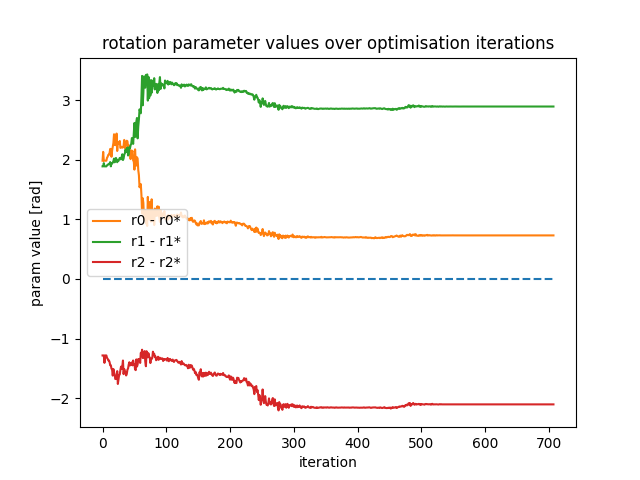
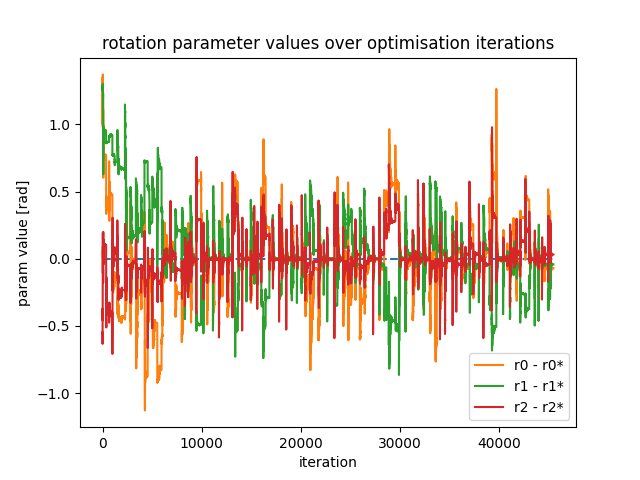
global optimisation with scipy

diff --git a/register.py b/register.py
@@ -136,7 +136,8 @@ def main(*, path: str | None, cache_directory: str, load_cached: bool, regenerat
     #                         torch.zeros_like(fixed_image, device='cpu')), dim=-1)
     # plt.imshow(overlaid)
 
-    if True:
+    # Landscape of similarity metric over two transformation parameters
+    if False:
         n = 80
         angle0s = torch.linspace(transformation_ground_truth.rotation[0] - torch.pi,
                                  transformation_ground_truth.rotation[0] + torch.pi, n)
@@ -159,6 +160,7 @@ def main(*, path: str | None, cache_directory: str, load_cached: bool, regenerat
         plt.colorbar(mesh)
         plt.savefig("data/temp/landscape_no_sample_smoothing.pgf")
 
+        # Landscape with sample smoothing
         if False:
             nznccs = torch.zeros((n, n))
             for i in tqdm(range(nznccs.numel())):
@@ -177,6 +179,7 @@ def main(*, path: str | None, cache_directory: str, load_cached: bool, regenerat
             plt.colorbar(mesh)
             plt.savefig("data/temp/landscape_with_sample_smoothing.pgf")
 
+    # Scatter of similarity vs. distance in SE3
     if True:
         n = 1000
         nznccs = torch.zeros(n)
@@ -193,7 +196,8 @@ def main(*, path: str | None, cache_directory: str, load_cached: bool, regenerat
         axes.set_ylabel("-ZNCC")
         axes.set_title("Relationship between similarity measure and distance in SE3")
 
-    if True:
+    # Registration
+    if False:
         def objective(params: torch.Tensor) -> torch.Tensor:
             return -objective_function.evaluate(fixed_image, sinogram3d,
                                                 transformation=Transformation(params[0:3], params[3:6]).to(
@@ -207,7 +211,7 @@ def main(*, path: str | None, cache_directory: str, load_cached: bool, regenerat
         start_params: torch.Tensor = transformation_start.vectorised()
 
         converged_params: torch.Tensor | None = None
-        if False:
+        if False:  # Using a PyTorch optimiser
             n = 1000
             iterated_params = start_params.clone().to(device=sinogram3d.device)
             iterated_params.requires_grad_(True)
@@ -230,7 +234,7 @@ def main(*, path: str | None, cache_directory: str, load_cached: bool, regenerat
             logger.info("Done. Took {:.3f}s.".format(toc - tic))
             logger.info("Final value = {:.3f} at params = {}".format(value_history[-1], param_history[-1]))
             converged_params = param_history[-1]
-        else:
+        else:  # Using a scipy optimiser
             def objective_scipy(params: np.ndarray) -> float:
                 params = torch.tensor(copy.deepcopy(params))
                 param_history.append(params)
@@ -239,7 +243,9 @@ def main(*, path: str | None, cache_directory: str, load_cached: bool, regenerat
                 return value.item()
 
             tic = time.time()
-            res = scipy.optimize.minimize(objective_scipy, start_params.numpy(), method='Nelder-Mead')
+            # res = scipy.optimize.minimize(objective_scipy, start_params.numpy(), method='Powell')
+            res = scipy.optimize.basinhopping(objective_scipy, start_params.numpy(), T=1.0,
+                                              minimizer_kwargs={"method": 'Nelder-Mead'})
             toc = time.time()
             logger.info("Done. Took {:.3f}s.".format(toc - tic))
             logger.info(res)

diff --git a/registration/objective_function.py b/registration/objective_function.py
@@ -47,7 +47,7 @@ def evaluate(fixed_image: torch.Tensor, sinogram3d: Sinogram, *, transformation:
     device = sinogram3d.device()
     source_position = scene_geometry.source_position(device=device)
     p_matrix = SceneGeometry.projection_matrix(source_position=source_position)
-    ph_matrix = torch.matmul(p_matrix, transformation.get_h(device=device)).to(dtype=torch.float32)
+    ph_matrix = torch.matmul(p_matrix, transformation.get_h(device=device).to(dtype=torch.float32))
 
     if smooth is not None and isinstance(sinogram3d, SinogramClassic):
         resampled = sinogram3d.resample_python(ph_matrix=ph_matrix, fixed_image_grid=fixed_image_grid, smooth=smooth,

diff --git a/registration/lib/geometry.py b/registration/lib/geometry.py
@@ -53,7 +53,7 @@ def generate_drr(volume_data: torch.Tensor, *, transformation: Transformation, v
     lambda_end: torch.Tensor = lambda_start + volume_diag_length
     step_size: float = (lambda_end - lambda_start).item() / float(samples_per_ray)
 
-    h_matrix_inv = transformation.inverse().get_h(device=device)
+    h_matrix_inv = transformation.inverse().get_h(device=device).to(dtype=torch.float32)
     deltas = directions * step_size
     deltas_homogeneous = torch.cat((deltas, torch.zeros_like(deltas[..., 0], device=device).unsqueeze(-1)), dim=-1)
     deltas = torch.einsum('ji,...i->...j', h_matrix_inv, deltas_homogeneous)[..., 0:3]

diff --git a/README.md b/README.md
@@ -82,7 +82,9 @@ the resampled Radon-transformed volume, with the ground truth transformation at 
 ![landscape.png](figures/landscape.png)
 
 Starting from a different random transformation, optimising the ZNCC between these images over the transformation using
-the Nelder-Mead algorithm:
+the basin-hopping algorithm:
+
+(specifically `scipy.optimize.basinhopping` with `T=1.0`, `minimizer_kwargs={"method": 'Nelder-Mead'}`)
 
 ![rotation_params_against_iteration.png](figures/rotation_params_against_iteration.png)
 ![translation_params_against_iteration.png](figures/translation_params_against_iteration.png)
@@ -96,17 +98,17 @@ DRR generated at the converged transformation:
 
 ![converged_drr.png](figures/converged_drr.png)
 
-Optimisation completed in 2.046 seconds, performing a total of 708 function evaluations.
+Optimisation completed in 125.508 seconds, performing a total of 45,472 function evaluations.
 
 Here is a plot of the -ZNCC similarity between the fixed image and the resampled moving image against the distance in
-SE3
-between the transformation and the ground truth transformation for 1000 random transformations:
+SE3 between the transformation and the ground truth transformation for 1000 random transformations:
 
 ![loss_vs_distance.png](figures/loss_vs_distance.png)
 
 [//]: # (# Resampling)
 
 [//]: # ()
+
 [//]: # (The 3D sinogram image is stored as a 3D grid of values, where the dimensions correspond to different values of phi,)
 
 [//]: # (theta and r. While this is very efficient for resampling, having the same number of value of phi for every value of)
@@ -114,11 +116,13 @@ between the transformation and the ground truth transformation for 1000 random t
 [//]: # (theta results in memory inefficiency and an extremely high densities of values near theta = +/- pi/2.)
 
 [//]: # ()
+
 [//]: # (Smoothing the sampling consistently over S^2 to eliminate the second of these effects demonstrates that the line of)
 
 [//]: # (discontinuity visible in the resampling of the sinogram is due to this effect:)
 
 [//]: # ()
+
 [//]: # (![dds_R2_gtilde_ground_truth_no_sample_smoothing.png]&#40;figures/dds_R2_gtilde_ground_truth_no_sample_smoothing.png&#41;)
 
 [//]: # (![ddr_R3_mu_resampled_ground_truth_no_sample_smoothing.png]&#40;figures/ddr_R3_mu_resampled_ground_truth_no_sample_smoothing.png&#41;)
@@ -126,9 +130,11 @@ between the transformation and the ground truth transformation for 1000 random t
 [//]: # (![ddr_R3_mu_resampled_ground_truth_sample_smoothing.png]&#40;figures/ddr_R3_mu_resampled_ground_truth_sample_smoothing.png&#41;)
 
 [//]: # ()
+
 [//]: # (Although there is no significant difference manifest in the resulting optimisation landscape:)
 
 [//]: # ()
+
 [//]: # (![landscape_no_sample_smoothing.png]&#40;figures/landscape_no_sample_smoothing.png&#41;)
 
 [//]: # (![landscape_sample_smoothing.png]&#40;figures/landscape_sample_smoothing.png&#41;)
